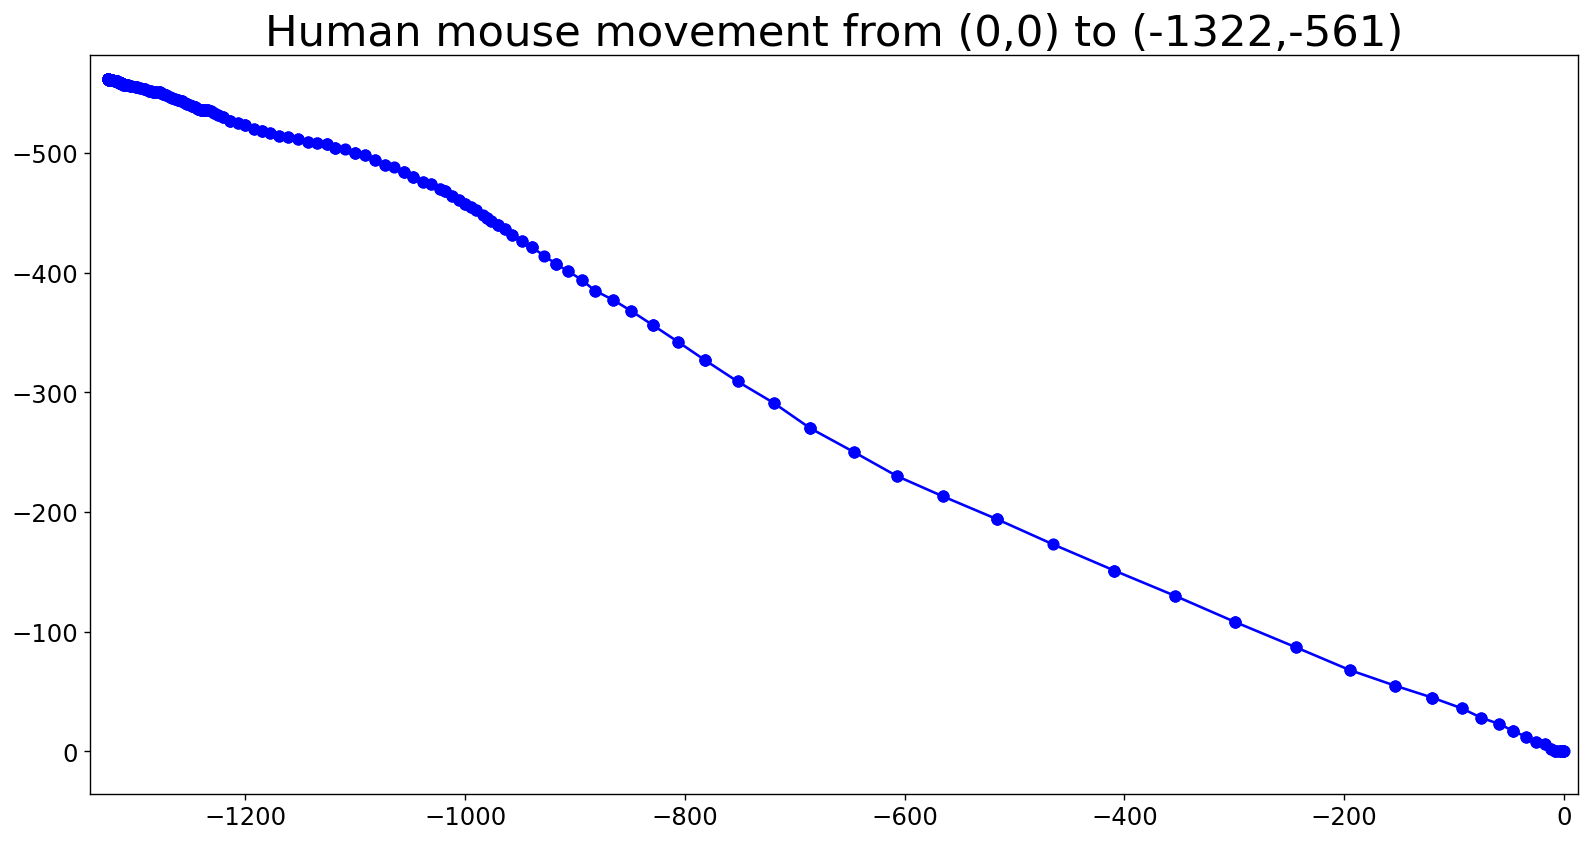
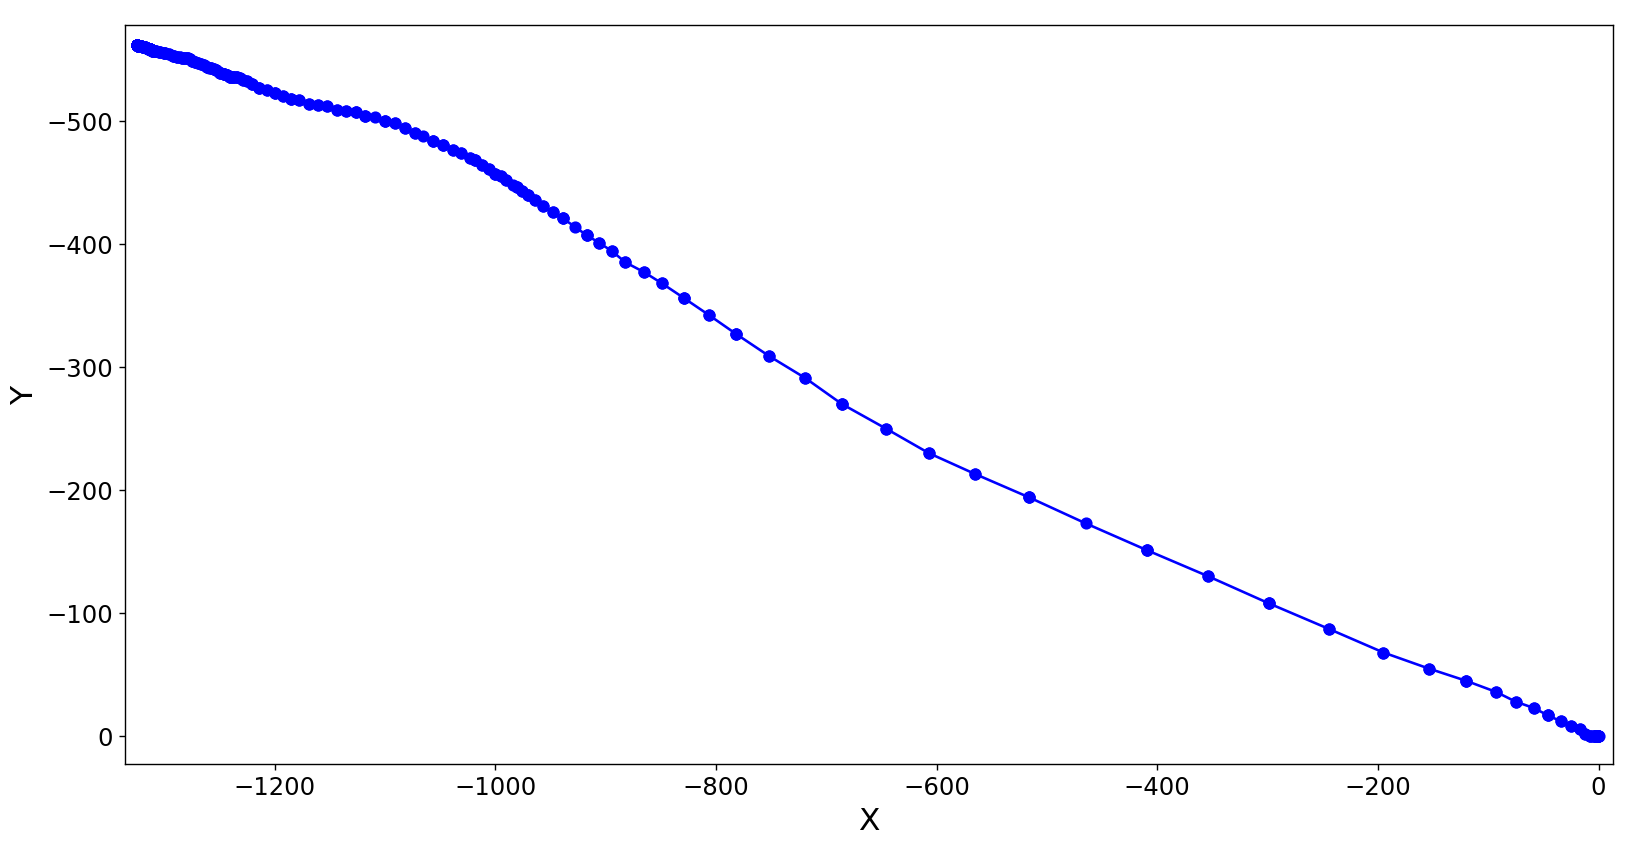
changes

diff --git a/Mouse/Data_Statistics.py b/Mouse/Data_Statistics.py
@@ -41,19 +41,30 @@ def plot_path(path):
         y_sum+=path[i+1]
         
     plt.plot(x,y,'bo-')
-    plt.title("Human mouse movement from (0,0) to ("+str(path[0])+","+str(path[1])+")",fontsize=25)
+    #plt.title("Human mouse movement from (0,0) to ("+str(path[0])+","+str(path[1])+")",fontsize=25)
     plt.xlim(-1920, 1920)
     plt.ylim(-1080, 1080)
+    plt.ylabel("Y",fontsize=18)
+    plt.xlabel("X",fontsize=18)
     plt.yticks(fontsize=14)
     plt.xticks(fontsize=14)
     plt.gca().invert_yaxis()
     plt.show()
+
+
+def get_index(startx,starty):
+    for i in range(len(data)):
+        if data[i][0]==startx and data[i][1]==starty:
+            return i
+            
 
 def main():
     print("Minták száma",len(data_trimmed))
     print("Átlagos lépésszám hossz:",avg_lenght_of_one_path())
     print("Legnagyobb lépés:",max_step_size())
     print("Átlagos pixel mérték lépésenként:",avg_step_size())
+
+    plot_path(data[get_index(-1322,-561)])
 
     for i in range(10):
         plot_path(data[random.randint(0,1314)])
